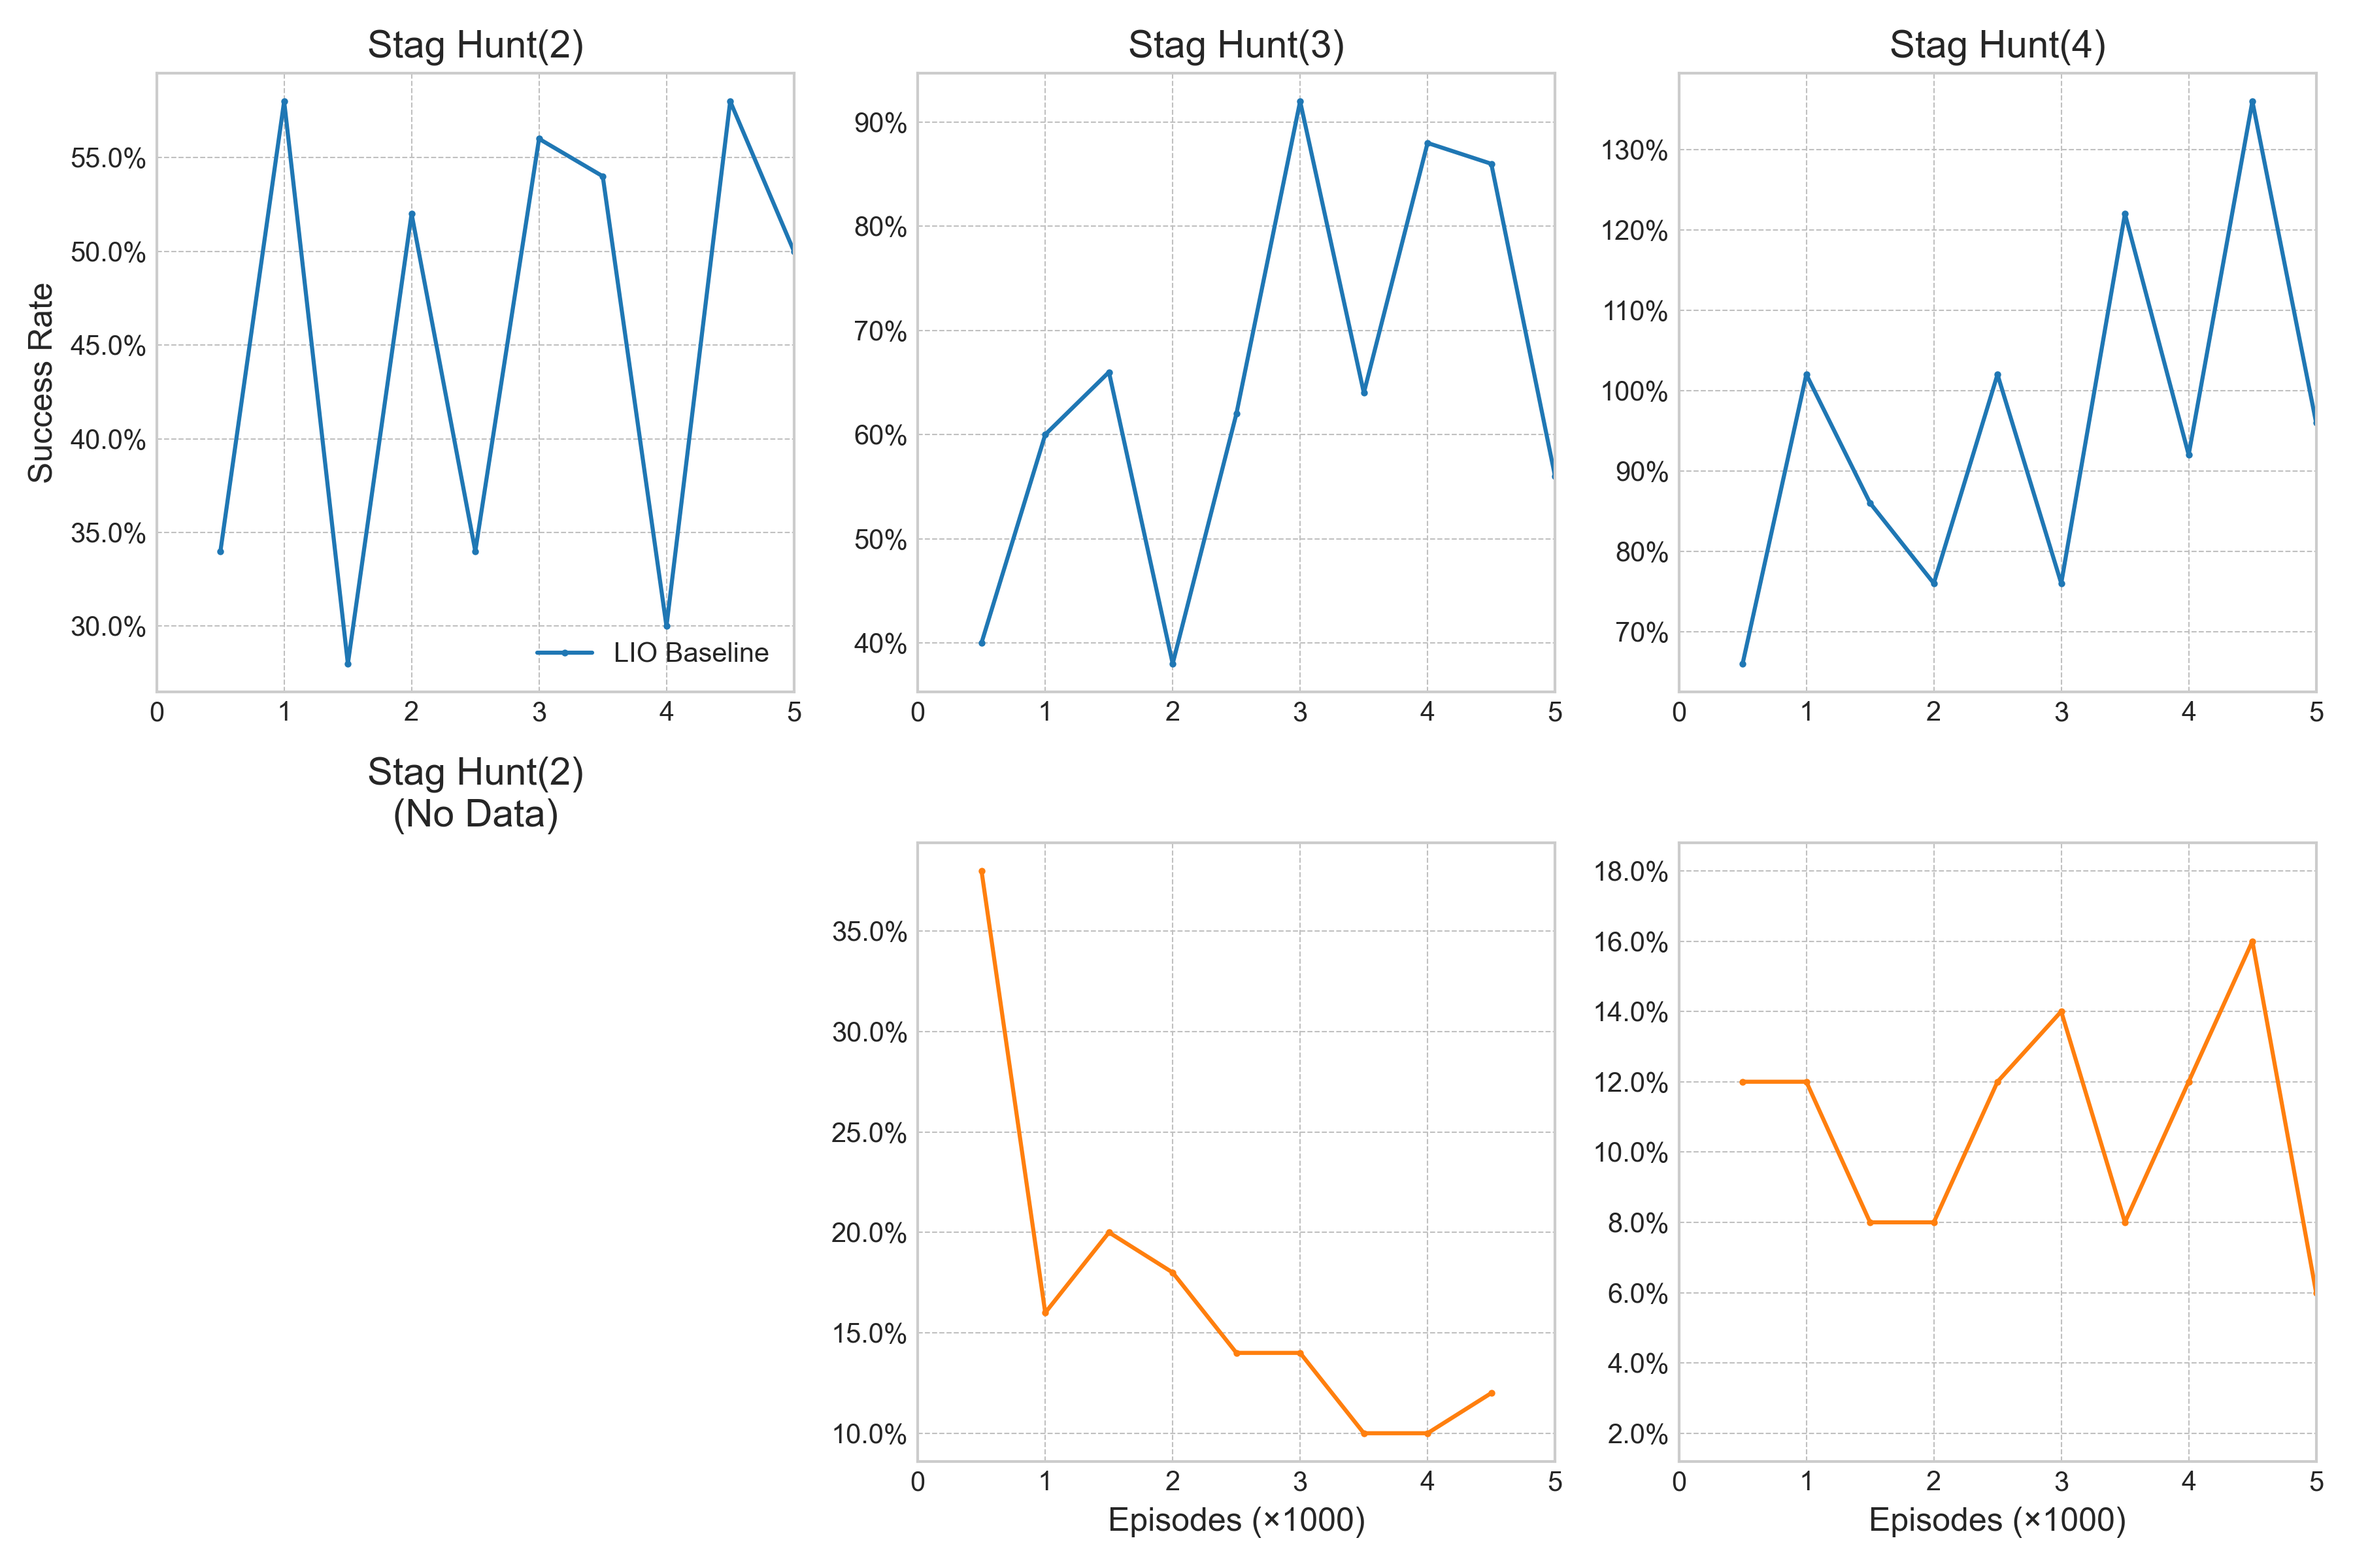
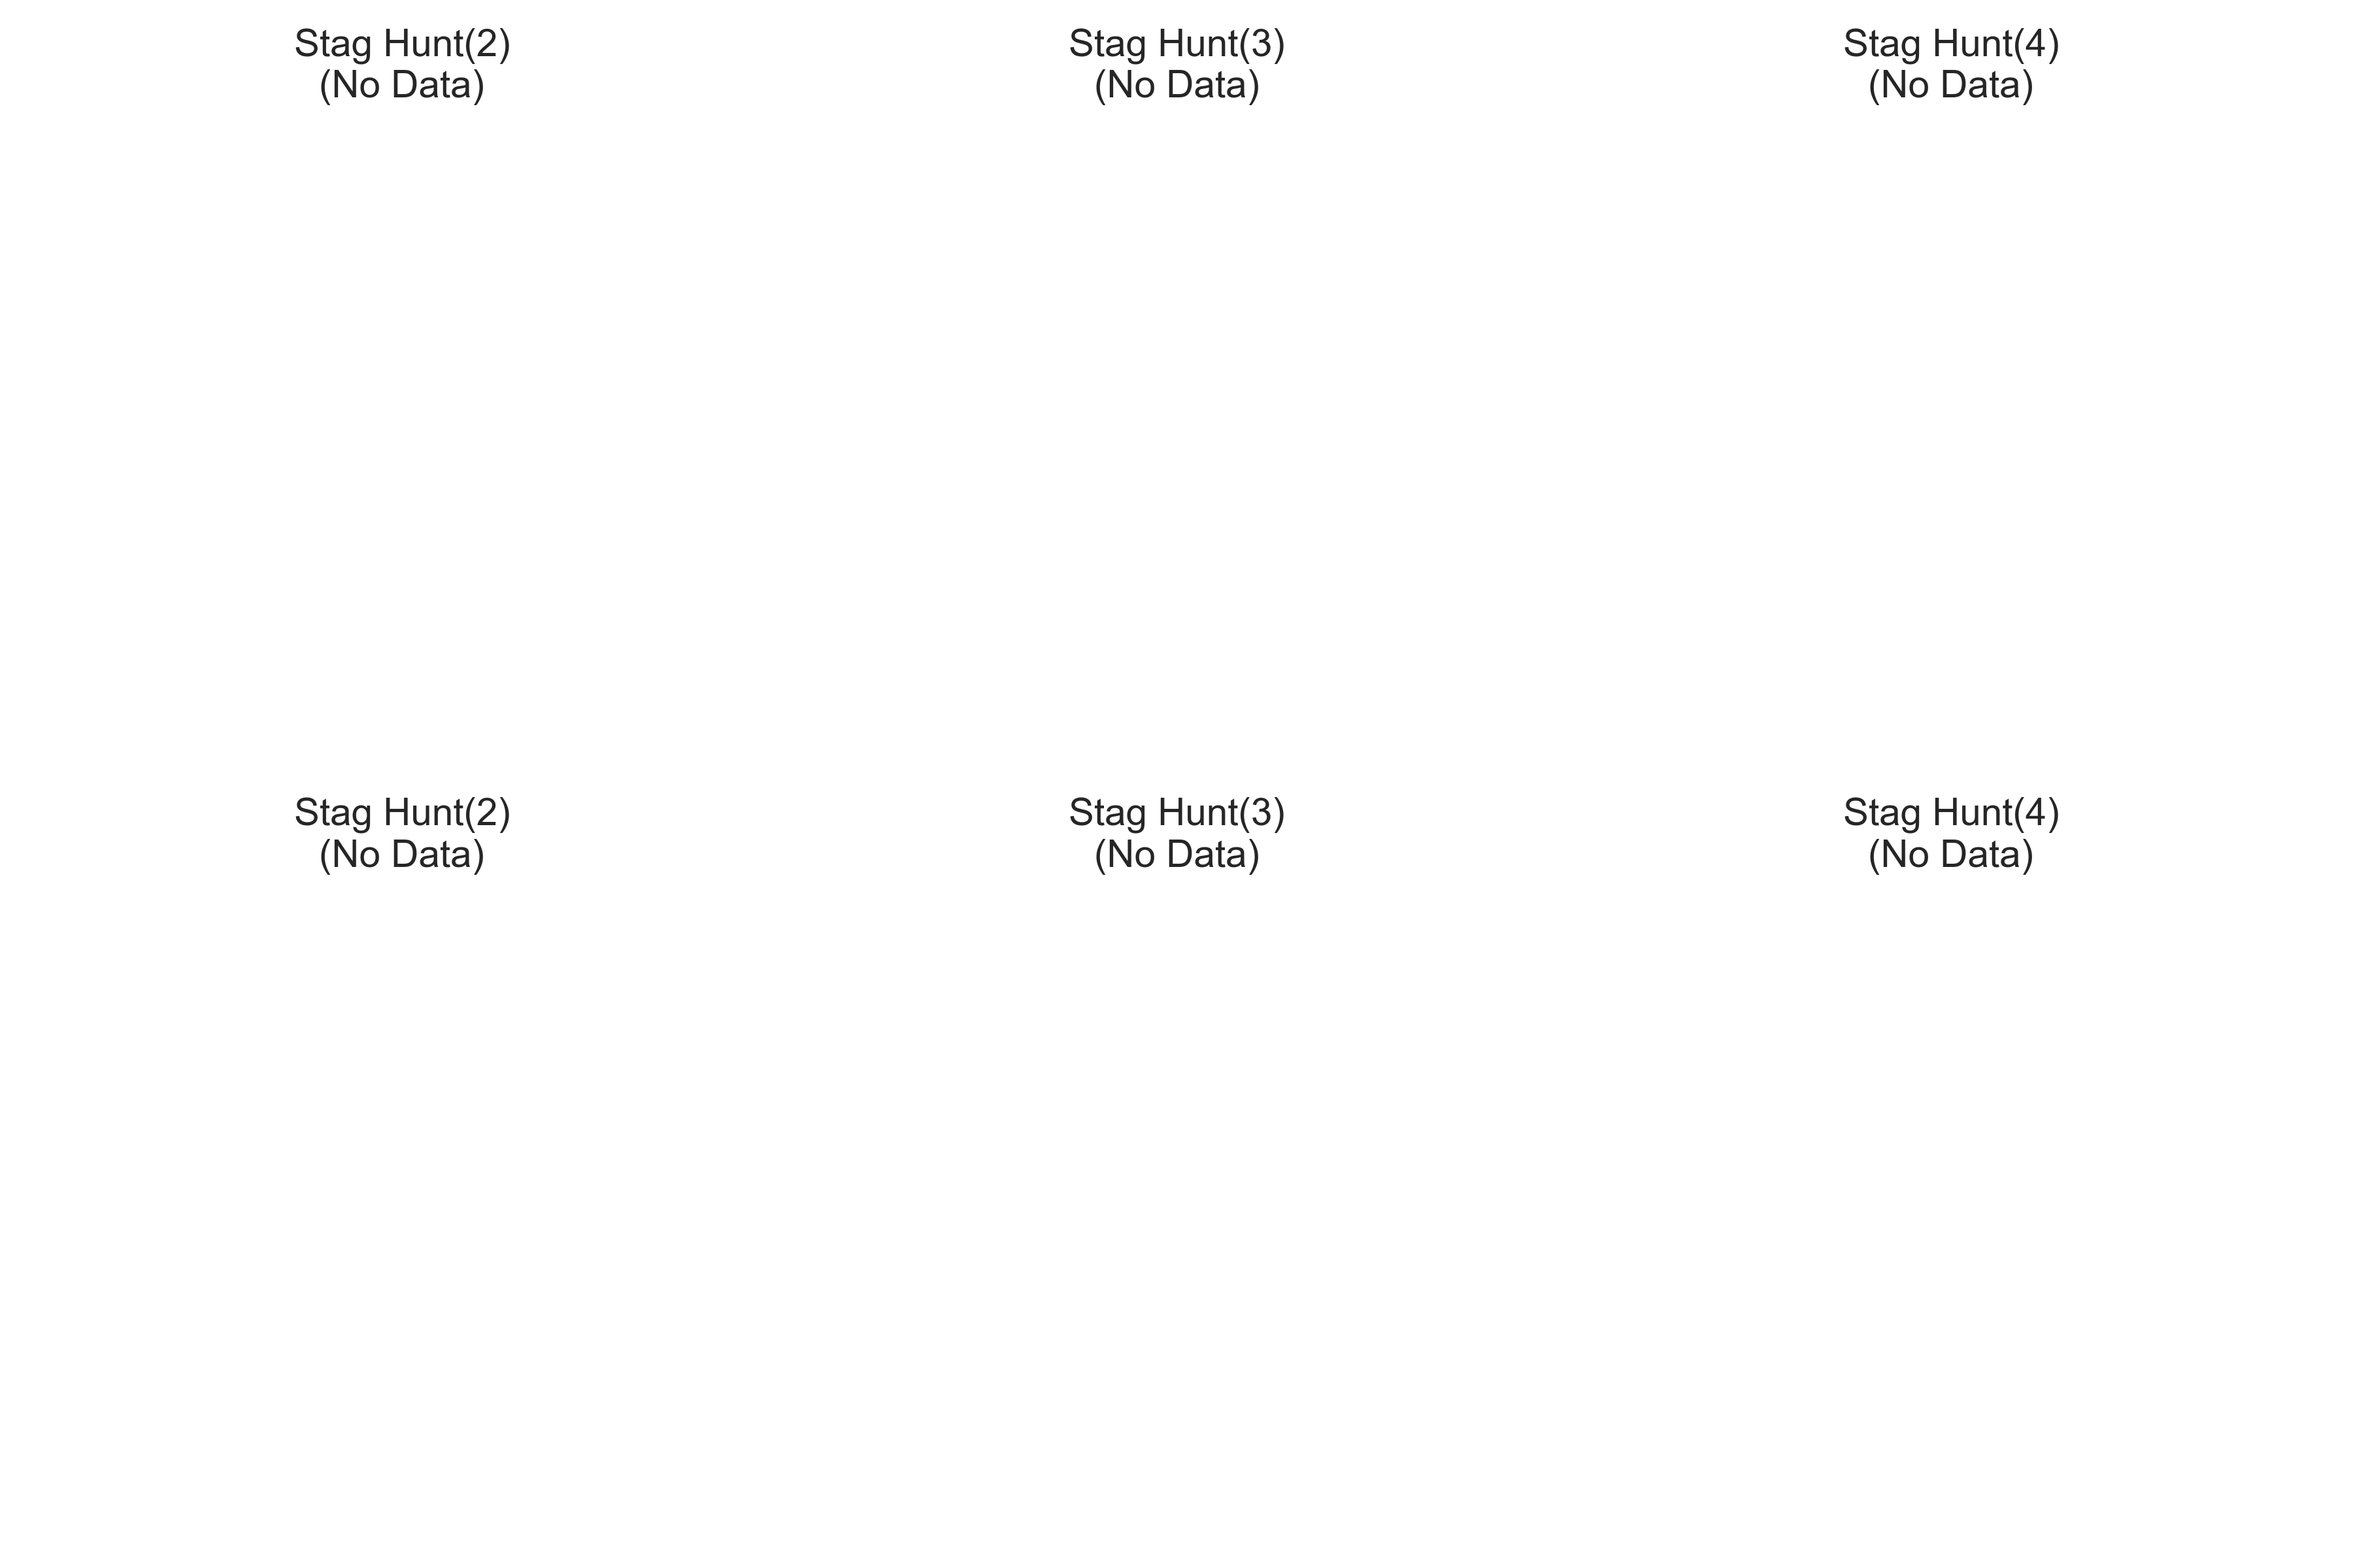
Fix N=2 data matching logic in plot script; Update color scheme for ADMO to tab:blue + gray hue; Add pure sequential run script (run_all_seq.sh); Remove parallel run script.

diff --git a/plot_staghunt_fig6.py b/plot_staghunt_fig6.py
@@ -55,13 +55,8 @@ def generate_staghunt_plot():
         env_id = 'staghunt'
         
         # General glob patterns
-        clean_glob = f"lio/results/{env_id}*/{env_id}_lio_{n_agents}/log.csv"
-        admo_glob = f"lio/results/{env_id}_admo_{n_agents}*/{env_id}_lio_admo_{n_agents}/log.csv"
-        
-        # For N=2 we know the existing path structure from prior runs
-        if n_agents == 2:
-            clean_glob = f"lio/results/{env_id}*/{env_id}_lio_2/log.csv"
-            admo_glob = f"lio/results/{env_id}_admo*/staghunt_lio_admo/log.csv"
+        clean_glob = f"lio/results/{env_id}_{n_agents}_trail_*/{env_id}_lio_{n_agents}/log.csv"
+        admo_glob = f"lio/results/{env_id}_admo_{n_agents}_trail_*/{env_id}_lio_admo_{n_agents}/log.csv"
 
         clean_files = glob.glob(clean_glob)
         admo_files = glob.glob(admo_glob)
